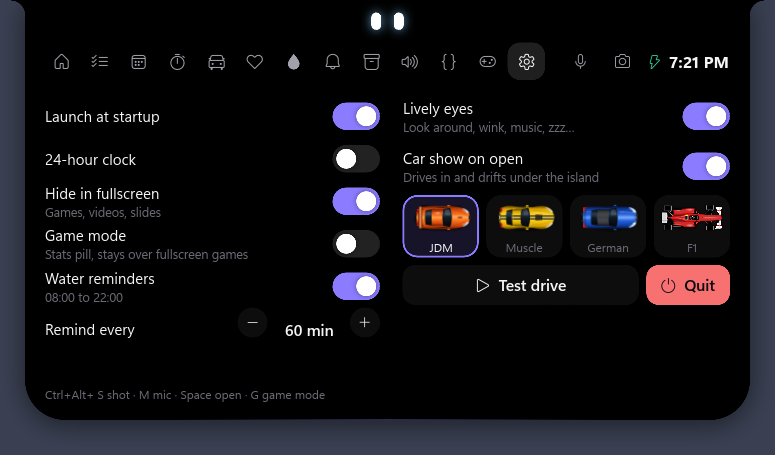
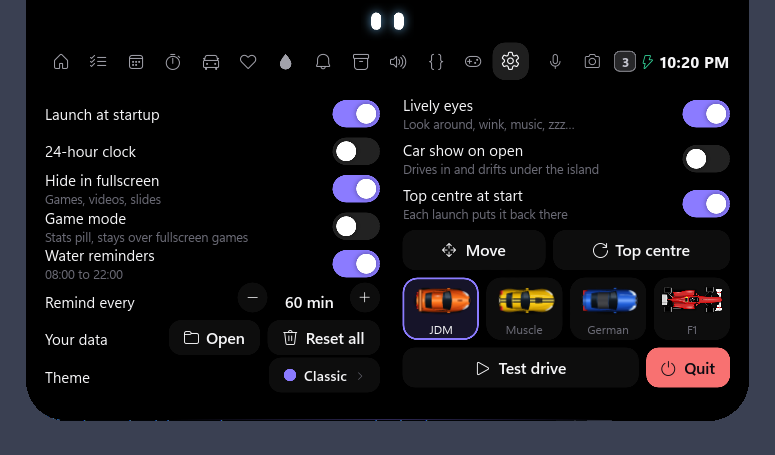
Settings: colour themes
Classic stays the default. Eight more come from colour palettes: Racing
Green, Burgundy Sage, Acid Lime, Orchid Sunset, Chrome Laser, Coral Steel,
Aurora and Graphite. Each tints the island and sets the text and accent
colours (hard-coded purples now follow the accent). Settings > Theme opens
a picker with a tiny preview of each, and the change applies right away.

diff --git a/src/main.rs b/src/main.rs
@@ -287,6 +287,15 @@ fn init_window(app: Shared) {
                     a.send_start();
                 }
             }
+            // WINKLET_DEMO_THEME=n shows theme n; WINKLET_DEMO_THEMES opens the theme picker
+            if let Some(t) = std::env::var("WINKLET_DEMO_THEME").ok().and_then(|t| t.parse::<i32>().ok()) {
+                a.ui().global::<Bridge>().set_theme(t);
+            }
+            if std::env::var_os("WINKLET_DEMO_THEMES").is_some() {
+                slint::Timer::single_shot(std::time::Duration::from_millis(1200), || {
+                    app::with_app(|s| s.borrow().ui().global::<Bridge>().set_theme_picking(true))
+                });
+            }
             // WINKLET_DEMO_SIZES=drink-id opens the cup-size sheet for that drink
             if let Ok(id) = std::env::var("WINKLET_DEMO_SIZES") {
                 slint::Timer::single_shot(std::time::Duration::from_millis(1500), move || {

diff --git a/src/store.rs b/src/store.rs
@@ -58,6 +58,8 @@ pub struct Settings {
     pub island_pos: Option<(i32, i32)>,
     /// every launch puts the island back at the top centre
     pub island_home_on_start: bool,
+    /// colour theme (0 = Classic)
+    pub theme: i32,
     /// Dev tools folders; empty = found automatically
     pub projects_dir: String,
     pub downloads_dir: String,
@@ -118,6 +120,7 @@ impl Default for Settings {
             eyes_lively: true,
             island_pos: None,
             island_home_on_start: true,
+            theme: 0,
             projects_dir: String::new(),
             downloads_dir: String::new(),
             stand_reminders: true,

diff --git a/src/callbacks/settings.rs b/src/callbacks/settings.rs
@@ -70,6 +70,11 @@ pub fn wire(b: &Bridge, app: &Shared) {
         sys::open(&dir.to_string_lossy(), "");
     });
     on!(b, app, on_data_reset, |a| { a.reset_all_data(); });
+    on!(b, app, on_set_theme, |a, t| {
+        a.data.settings.theme = t.max(0);
+        a.data.save();
+        a.ui().global::<Bridge>().set_theme(t.max(0));
+    });
     // collapses the panel it was clicked in: let the click finish first
     b.on_island_move(|| defer(App::start_move));
     b.on_car_preview(|| {

diff --git a/src/app/refresh.rs b/src/app/refresh.rs
@@ -68,6 +68,7 @@ impl App {
         b.set_workspace(s(st.workspace_dir.clone()));
         b.set_car_enabled(st.car_show);
         b.set_island_home_start(st.island_home_on_start);
+        b.set_theme(st.theme);
         b.set_data_dir(s(crate::store::data_dir().to_string_lossy().to_string()));
         b.set_car_model(st.car_model);
         b.set_eyes_lively(st.eyes_lively);

diff --git a/README.md b/README.md
@@ -163,9 +163,13 @@ Turn it on in the **Game** tab, in Settings or with **Ctrl+Alt+G**, or let it sw
 
 ### Settings
 
-Launch at startup, 12- or 24-hour clock, hide during fullscreen games, videos and presentations, game mode, water reminders and their interval, lively eyes, car show and car model, where the island sits (**Move**, **Top centre**, **Top centre at start**), **Your data** (open the folder it's saved in, or **Reset all** with a second click to confirm), and Quit. The tray icon has Open and Quit too.
+Launch at startup, 12- or 24-hour clock, hide during fullscreen games, videos and presentations, game mode, water reminders and their interval, lively eyes, car show and car model, the colour theme, where the island sits (**Move**, **Top centre**, **Top centre at start**), **Your data** (open the folder it's saved in, or **Reset all** with a second click to confirm), and Quit. The tray icon has Open and Quit too.
 
 <img src="docs/screenshots/settings.png" width="560" alt="Settings">
+
+**Theme** picks the colours: **Classic** (the original look, and the default), **Racing Green**, **Burgundy Sage**, **Acid Lime**, **Orchid Sunset**, **Chrome Laser**, **Coral Steel**, **Aurora** and **Graphite**. The island stays dark in every theme; each one tints it and changes the text and accent colours, and the change applies right away.
+
+<img src="docs/screenshots/themes.png" width="560" alt="Theme picker with nine colour themes">
 
 ### Hotkeys
 
